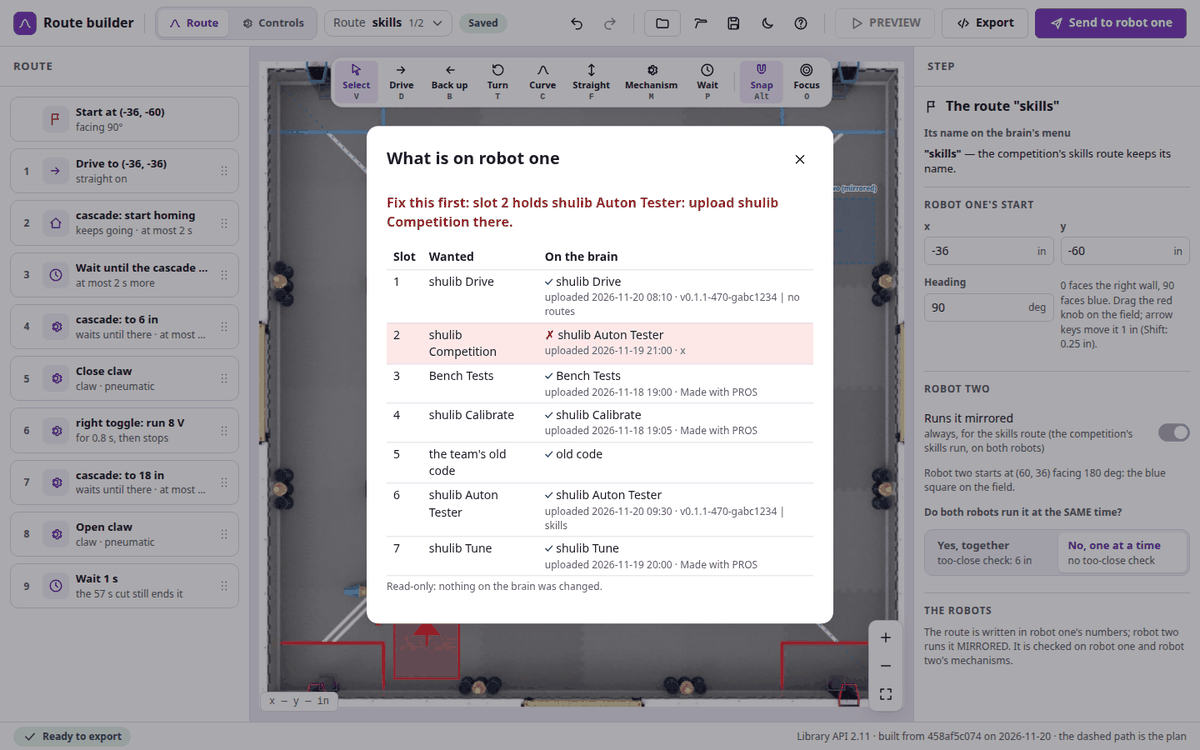
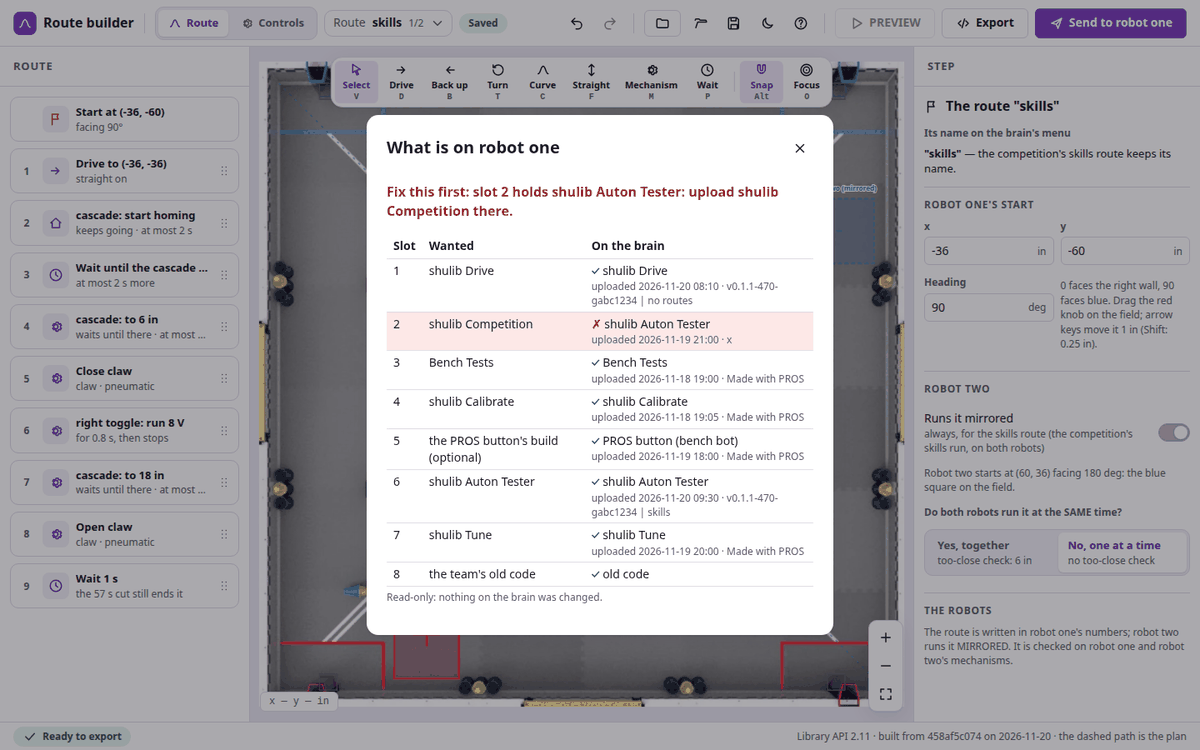
fix(route-builder): RMP1-K's slot table matches robot one's brain -- the team's old code is slot 8 (never touched), slot 5 the PROS button's optional build; slots 1-8 shown. Self-test 142; 2 mutants RED; slots.png re-made

Changed region(s): [[0.3083, 0.2453, 0.6783, 0.7973], [0.3083, 0.1533, 0.7092, 0.2147], [0.3083, 0.828, 0.7092, 0.8587]]

diff --git a/tools/route_builder.py b/tools/route_builder.py
@@ -57,9 +57,12 @@ NO_FACTS = ("The route builder has no robots' facts on this laptop yet: connect 
             "keeps them for the venue), or build it (tools/route_maker/README.md).")
 GROUP = {"creationflags": subprocess.CREATE_NEW_PROCESS_GROUP} if os.name == "nt" else {"start_new_session": True}
 REFUSED = "refused: open the route builder with the link it printed in its terminal"
-# RMP1-K D5: what each slot should hold (the team lead, 2026-11-20); slot 5 is the team's old code, never touched.
+# RMP1-K D5: what each slot should hold (the team lead, 2026-11-20). None: never judged -- slot 5 is whatever the PROS
+# extension's own Upload button built last (project.pros), slot 8 the team's old code ("we arent going to delete dan's code").
 WANTED = {1: "shulib Drive", 2: "shulib Competition", 3: "Bench Tests", 4: "shulib Calibrate", 5: None,
-          6: "shulib Auton Tester", 7: "shulib Tune"}
+          6: "shulib Auton Tester", 7: "shulib Tune", 8: None}
+LEFT_ALONE = {5: ("the PROS button's build (optional)", "optional, never judged"),
+              8: ("the team's old code", "never touched by shulib")}
 UNPLUGGED = "The brain's USB was unplugged (or the brain turned off): plug the BRAIN in, then Watch the robot again."
 FACTS_FROM = ("src/robots", "include")  # what the robots' descriptions are built from (test/route_maker_main.cpp)
 
@@ -273,10 +276,10 @@ def slot_table(have):
         got = have.get(n)
         name = got["name"] if got else None
         unread = bool(got and got.get("unread"))
-        row = {"slot": n, "want": want or "the team's old code", "have": name, "unread": unread,
+        row = {"slot": n, "want": want or LEFT_ALONE[n][0], "have": name, "unread": unread,
                "date": got and got["date"], "description": got and got["description"]}
         if want is None:
-            rows.append(dict(row, ok=True, fix="never touched by shulib"))
+            rows.append(dict(row, ok=True, fix=LEFT_ALONE[n][1]))
             continue
         ok = name == want
         where = [k for k, g in have.items() if g["name"] == want and k != n]
@@ -1153,27 +1156,32 @@ def self_test():
         (work / "calls.txt").unlink(missing_ok=True)
         st, body, _ = ask(srv, "POST", "/api/robot?robot=one")
         got = json.loads(body)
-        rows = got["rows"] or [{}] * 7
+        rows = got["rows"] or [{}] * 8
         calls = (work / "calls.txt").read_text(encoding="utf-8").splitlines()
         check("Check robot one: every slot right (pros's own 'Loading' and 'Downloading slot_N.ini' lines around the answer)",
-              st == 200 and [r.get("ok") for r in rows] == [True] * 7 and rows[1]["have"] == "shulib Competition"
+              st == 200 and [r.get("ok") for r in rows] == [True] * 8 and rows[1]["have"] == "shulib Competition"
               and rows[5]["description"] == "v0.1.1-470-gabc1234 | skills" and rows[0]["date"] == "2026-11-20T01:00:00", got)
         check("... read-only: lsusb, then ONE pros user-script tools/brain_slots.py (the fake V5Device can only read)",
               calls == ["pros lsusb", f"pros user-script {TOOLS / 'brain_slots.py'}"], calls)
-        check("the old code's slot: never touched by shulib", rows[4]["ok"] and rows[4]["fix"] == "never touched by shulib", rows[4])
+        check("the old code's slot (8): never touched by shulib", rows[7]["slot"] == 8 and rows[7]["ok"]
+              and rows[7]["want"] == "the team's old code" and rows[7]["fix"] == "never touched by shulib", rows[7])
+        check("the PROS button's slot (5): optional, never judged", rows[4]["slot"] == 5 and rows[4]["ok"]
+              and rows[4]["want"] == "the PROS button's build (optional)" and rows[4]["fix"] == "optional, never judged", rows[4])
         out = subprocess.run([sys.executable, str(Path(__file__).resolve()), "--root", str(repo), "robot", "one"], capture_output=True,
                              text=True, encoding="utf-8", timeout=60, env=dict(os.environ, PYTHONIOENCODING="utf-8"))
         check("python3 tools/route_builder.py robot one: each slot's whole line (its upload time and its build's tag)", out.returncode == 0
               and "  ✓ slot 6: shulib Auton Tester  uploaded 2026-11-20 06:00  [v0.1.1-470-gabc1234 | skills]\n" in out.stdout
-              and "  ✓ slot 5: VEXcode  uploaded 2026-11-20 05:00  [Made with PROS]\n" in out.stdout, out.stdout + out.stderr)
-        bad = dict(good, **{"2": ["shulib Auton Tester", "x", "2026-11-20T02:00:00"], "5": ["somebody's old code", "", ""]})
+              and "  ✓ slot 8: VEXcode  uploaded 2026-11-20 08:00  [Made with PROS]\n" in out.stdout, out.stdout + out.stderr)
+        bad = dict(good, **{"2": ["shulib Auton Tester", "x", "2026-11-20T02:00:00"], "8": ["somebody's old code", "", ""]})
         del bad["6"]
+        del bad["5"]
         os.environ["FAKE_SLOTS"] = json.dumps(bad)
         rows = json.loads(ask(srv, "POST", "/api/robot?robot=one")[1])["rows"]
         check("one slot wrong: the plain fix", not rows[1]["ok"] and rows[1]["fix"] == "slot 2 holds shulib Auton Tester: upload shulib Competition there", rows[1])
         check("one slot empty: the plain fix", not rows[5]["ok"] and rows[5]["fix"].startswith("slot 6 is empty: upload shulib Auton Tester there")
               and rows[5]["fix"].endswith("(it is in slot 2 now)"), rows[5])
-        check("the old code's slot left alone, whatever is in it", rows[4]["ok"] and rows[4]["have"] == "somebody's old code", rows[4])
+        check("the old code's slot left alone, whatever is in it", rows[7]["ok"] and rows[7]["have"] == "somebody's old code", rows[7])
+        check("the PROS button's slot empty: still fine (it is optional)", rows[4]["ok"] and rows[4]["have"] is None, rows[4])
         out = subprocess.run([sys.executable, str(Path(__file__).resolve()), "--root", str(repo), "robot", "one"], capture_output=True,
                              text=True, encoding="utf-8", timeout=60, env=dict(os.environ, PYTHONIOENCODING="utf-8"))
         check("python3 tools/route_builder.py robot one: the table in the terminal", out.returncode == 0
@@ -1183,13 +1191,13 @@ def self_test():
         rows = json.loads(ask(srv, "POST", "/api/robot?robot=one")[1])["rows"]
         check("a slot whose file cannot be read: said so, never 'empty' or 'holds ?: upload'", not rows[1]["ok"] and rows[1]["unread"]
               and rows[1]["have"] is None and rows[1]["fix"] == "slot 2 could not be read (pros could not read slot_2.ini): check again"
-              and [r["ok"] for r in rows] == [True, False, True, True, True, True, True], rows[1])
-        os.environ["FAKE_SLOTS"] = json.dumps(dict(good, **{"5": ["VEXcode", "100% auton", "2026-11-20T05:00:00"]}))
+              and [r["ok"] for r in rows] == [True, False, True, True, True, True, True, True], rows[1])
+        os.environ["FAKE_SLOTS"] = json.dumps(dict(good, **{"8": ["VEXcode", "100% auton", "2026-11-20T08:00:00"]}))
         got = json.loads(ask(srv, "POST", "/api/robot?robot=one")[1])
-        rows = got["rows"] or [{}] * 7
-        check("another tool's '%' in slot 5 (pros's ConfigParser interpolates): the whole table, slot 5's row as written",
-              [r.get("ok") for r in rows] == [True] * 7 and not rows[4]["unread"] and rows[4]["have"] == "VEXcode"
-              and rows[4]["description"] == "100% auton" and rows[1]["have"] == "shulib Competition", got)
+        rows = got["rows"] or [{}] * 8
+        check("another tool's '%' in slot 8 (pros's ConfigParser interpolates): the whole table, slot 8's row as written",
+              [r.get("ok") for r in rows] == [True] * 8 and not rows[7]["unread"] and rows[7]["have"] == "VEXcode"
+              and rows[7]["description"] == "100% auton" and rows[1]["have"] == "shulib Competition", got)
         os.environ.update(FAKE_SLOTS=json.dumps(good), FAKE_CASE="slotsfail")
         got = json.loads(ask(srv, "POST", "/api/robot?robot=one")[1])
         check("the brain does not answer pros: said in pros's words, no table", got["rows"] is None and got["why"]

diff --git a/docs/internal/chunks/RMP1-PROGRESS.md b/docs/internal/chunks/RMP1-PROGRESS.md
@@ -5320,3 +5320,22 @@ One finding from a fresh verifier. Re-checked before anything changed.
   skipped / 0 fail, Chromium 111 / 7 / 0** (the same skips as before). No helper or browser process left running.
 - **Stopped here: uncommitted, for the coordinator.** The "owed on the robot" list above stands unchanged; item (2), the
   real `pros user-script tools/brain_slots.py`, also covers this round's `raw=True` read on the frozen 3.9 pros-cli.
+
+### RMP1-K coordinator fix at the merge (2026-11-20 14:35 EST): the slot table matches robot one's brain
+
+- **Found by the coordinator** before merging: D5's table held slot 5 for "the team's old code". On robot one
+  (2F007C00, `pros v5 ls-files` 11-20 12:40 and 13:52) the old code — the team lead: "we arent going to delete dan's
+  code" — is in **slot 8** (uploaded 2026-08-13), and slot 5 is where the PROS extension's own Upload button now builds
+  ("PROS button (bench bot)", integrate 61816f6). So a robot with every program right showed slot 8 nowhere, and
+  slot 5 was called the old code.
+- **Fix** (`tools/route_builder.py`): `WANTED` covers slots 1–8; slots 5 and 8 are `None` (never judged), worded by
+  `LEFT_ALONE`: 5 "the PROS button's build (optional)" / "optional, never judged"; 8 "the team's old code" / "never
+  touched by shulib". Self-test 142 (2 new: slot 5 named and optional; slot 5 EMPTY still ✓); the `%` case moved to
+  slot 8 (a VEXcode upload is where another tool's ini would be); the page test's fake brain has slot 5 = the PROS
+  button's build and slot 8 = old code, and pins both rows' words.
+- **Mutants:** S1 (slot 8 dropped from `WANTED`) RED — "every slot right" fails first; S2 (slot 5 judged as "PROS
+  button (bench bot)") RED — both slot-5 checks by name.
+- **Gates:** route_builder self-test 142 OK; `run_view.page.test.mjs` Chromium 4/4 (slots test, shots light/dark
+  1440/1280 in `scratch/rmp1-k/shots-slots8/`, read: 8 rows fit at 1280×800) and Firefox 4/4. `slots.png` re-made from
+  Chromium light 1440 (1200×750, 256 colours, as `to_docs.py`). The docs that say "slot 5 is the team's old code"
+  (where-your-code-goes, guide 17) are integrate's, corrected in the merge.
